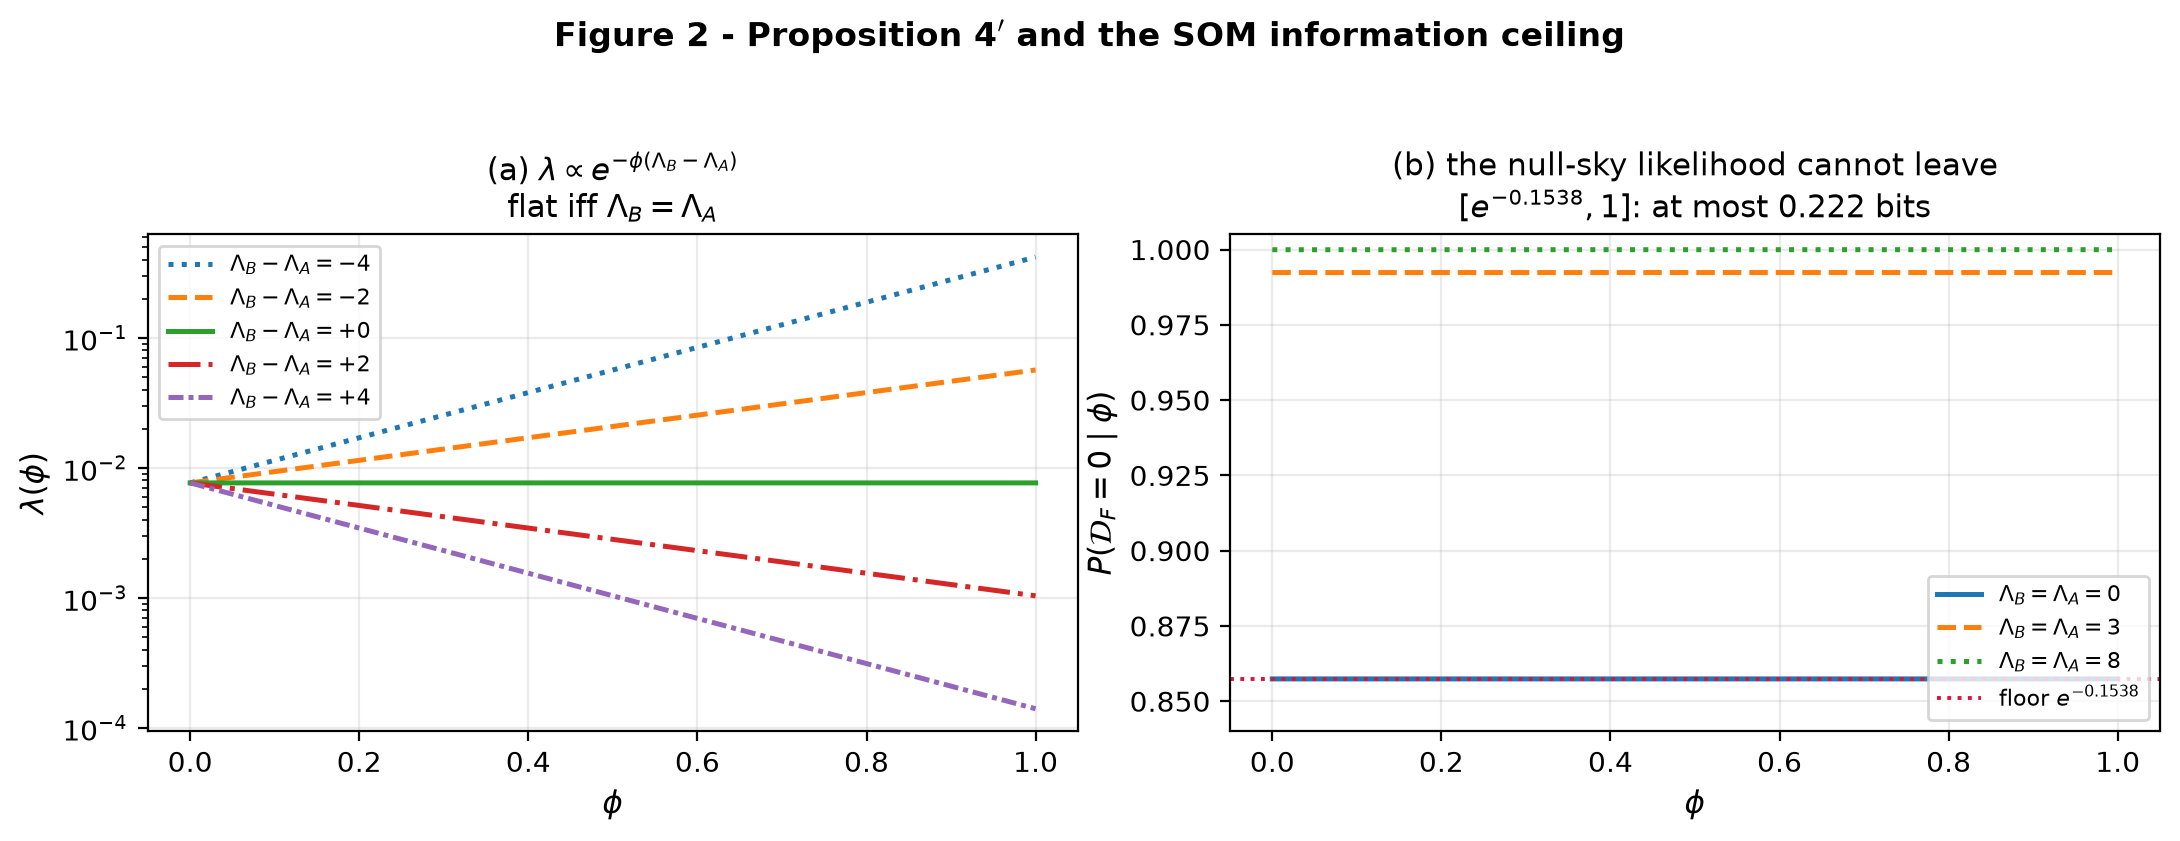
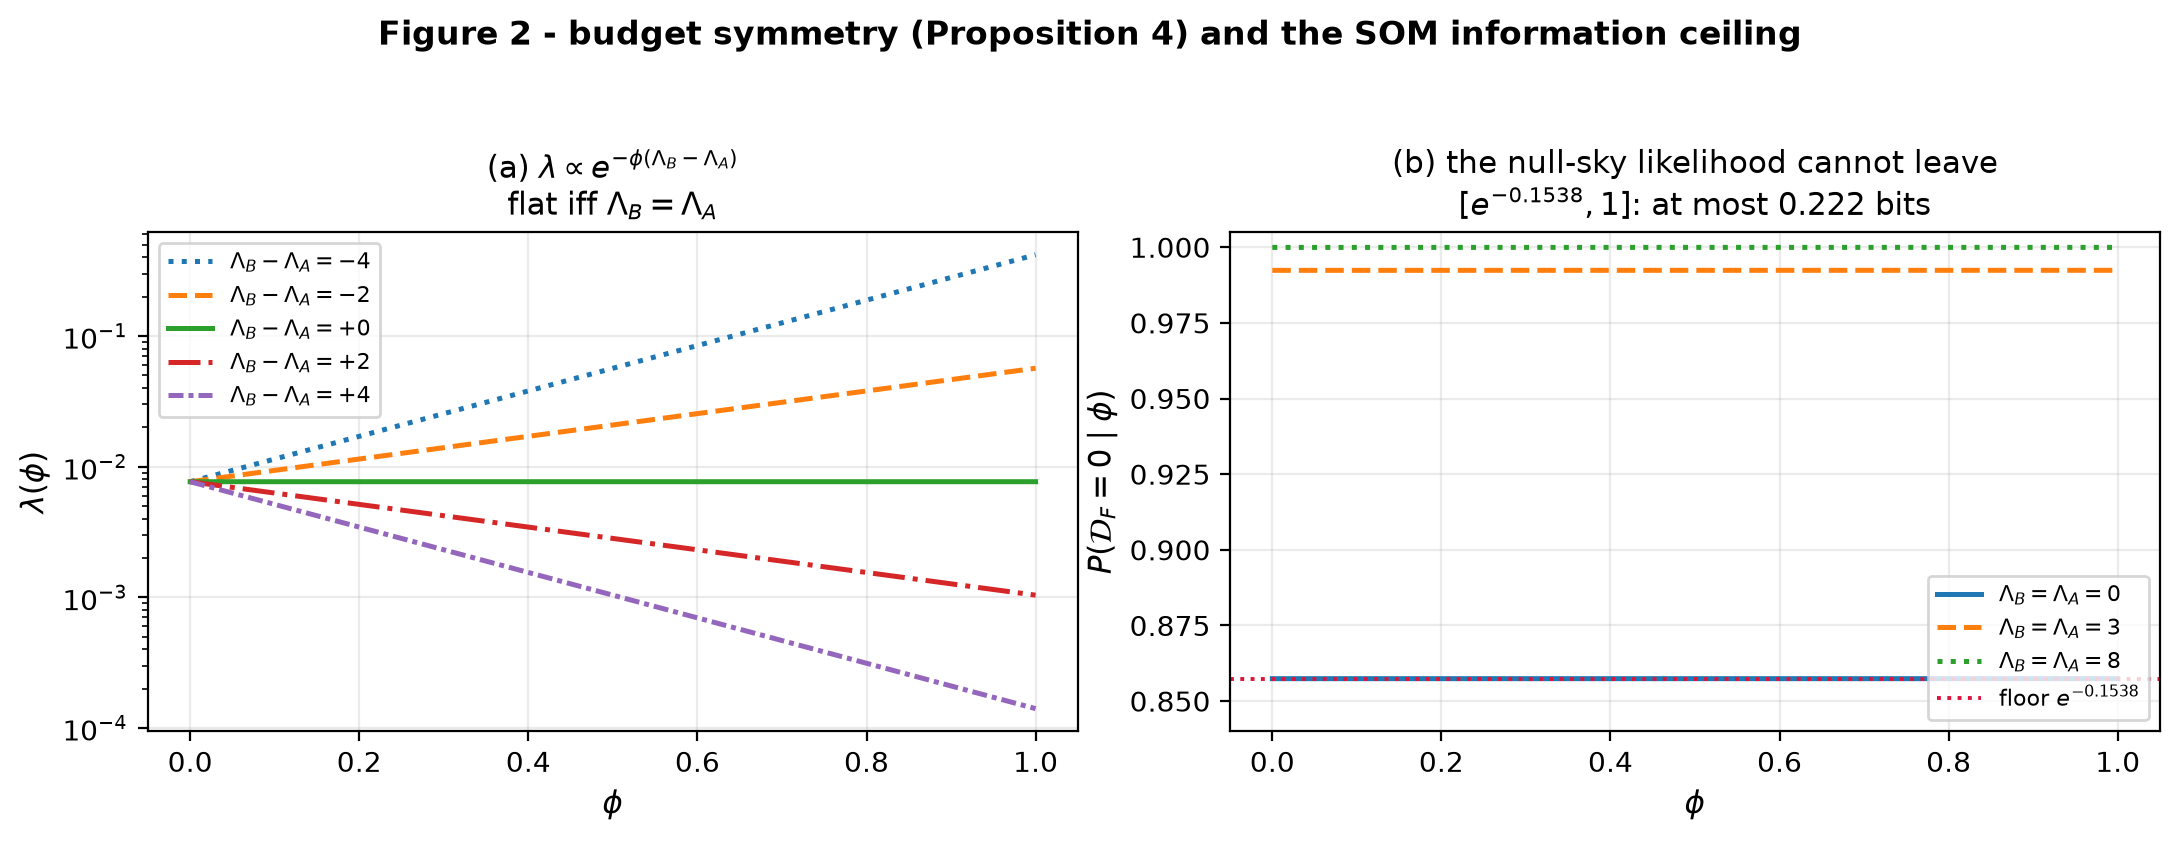
v2.1.0: section bodies, conditional ceiling, figure titles, repo name

diff --git a/filter_experiments.py b/filter_experiments.py
@@ -192,8 +192,8 @@ def figure_2():
                       rf"{np.log2(np.exp(pref)):.3f} bits")
     axes[1].legend(fontsize=8, loc="lower right")
 
-    fig.suptitle(r"Figure 2 - Proposition 4$'$ and the SOM information "
-                 "ceiling", fontweight="bold", y=1.04)
+    fig.suptitle(r"Figure 2 - budget symmetry (Proposition 4) and the SOM "
+                 r"information ceiling", fontweight="bold", y=1.04)
     fig.tight_layout()
     fig.savefig(f"{OUT_FIG}/fig2_lambda.png")
     plt.close(fig)
@@ -242,7 +242,7 @@ def figure_4(n=61):
                       "\nunidentified couplings, not by the data")
 
     fig.suptitle("Figure 4 - negligible information across coupling "
-                 "space, but a sign that still flips",
+                 "space; the residual tilt is set by the couplings",
                  fontweight="bold", y=1.05)
     fig.tight_layout()
     fig.savefig(f"{OUT_FIG}/fig4_flat_locus.png")
